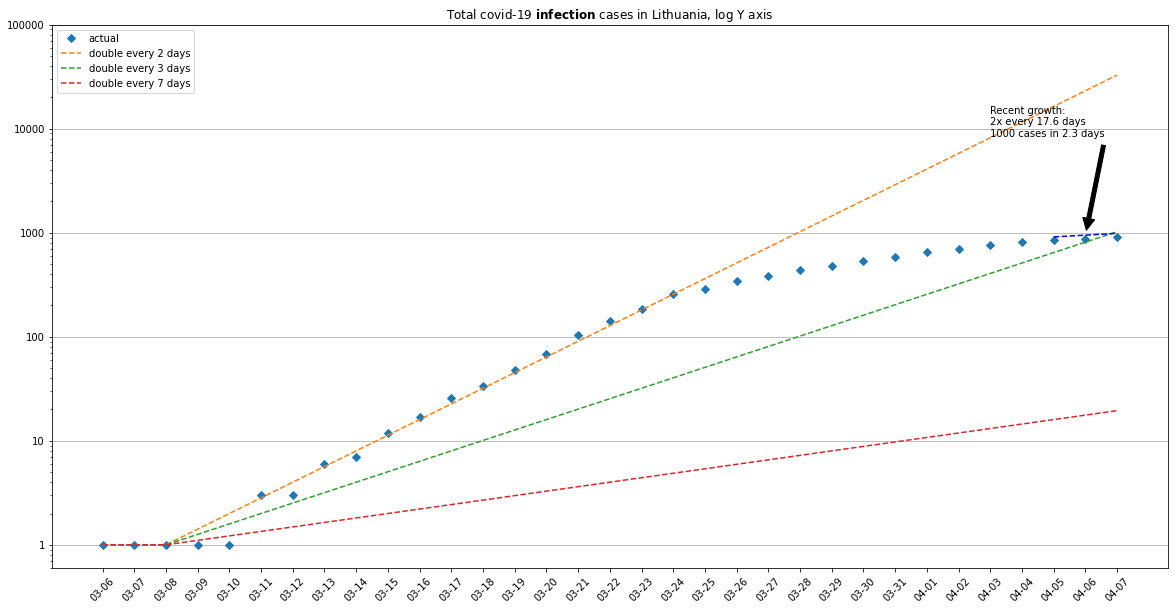
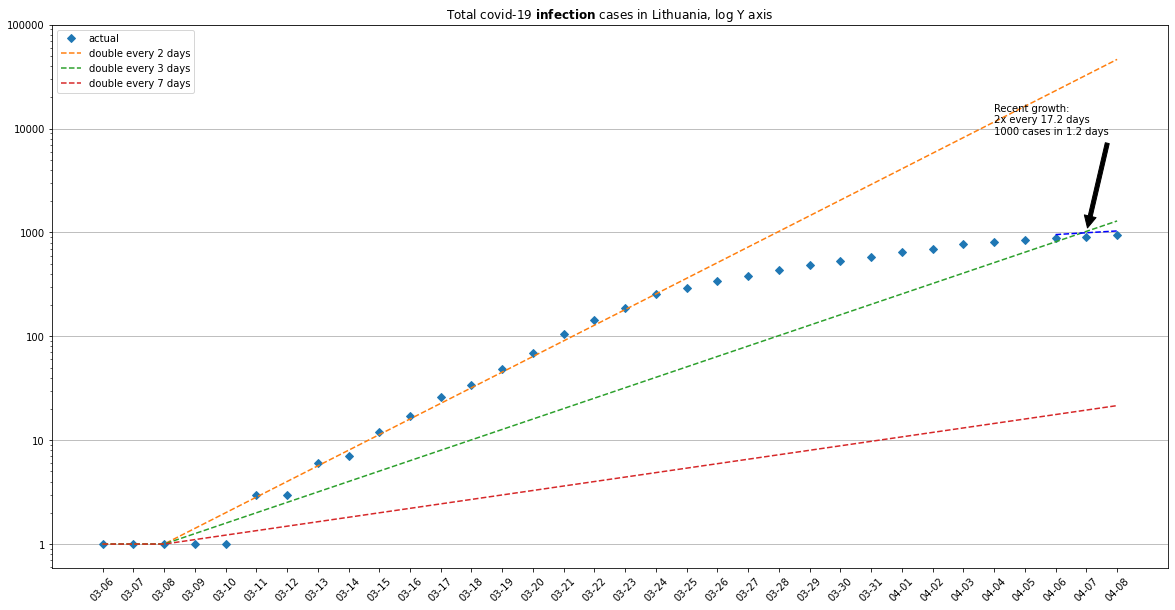
04-08 data

diff --git a/README.md b/README.md
@@ -9,6 +9,9 @@
 ## Daily new cases
 ![Daily new cases](index_daily.png)
 
+## LogLog plot of Daily new cases against total cases
+![LogLog new cases](index_loglog.png)
+
 ## Data sources
 - [https://github.com/mpiktas/covid19lt](https://github.com/mpiktas/covid19lt)
 
